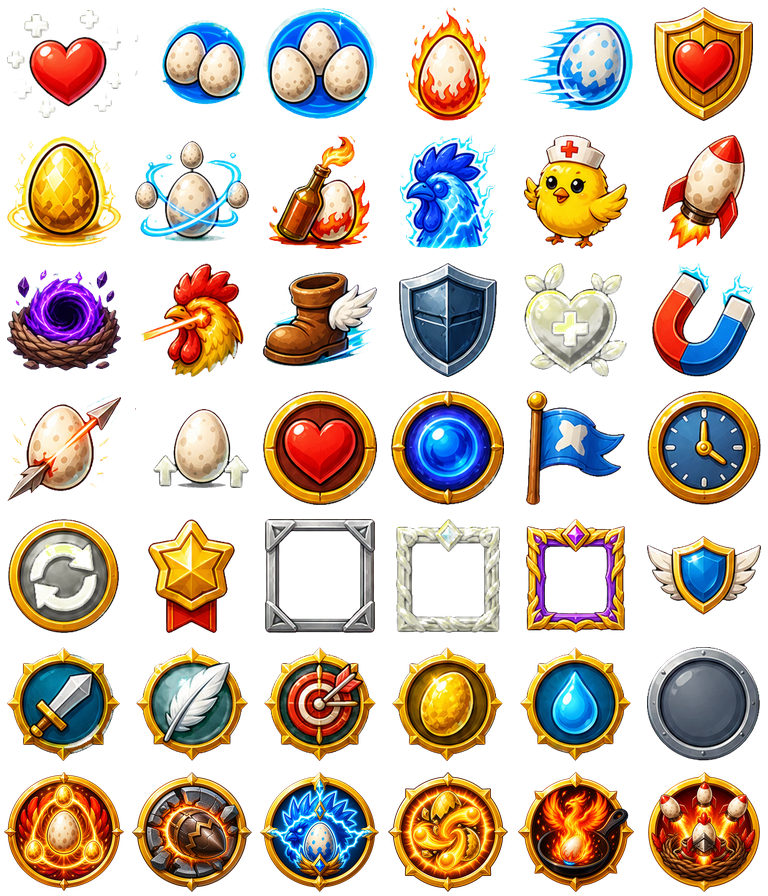
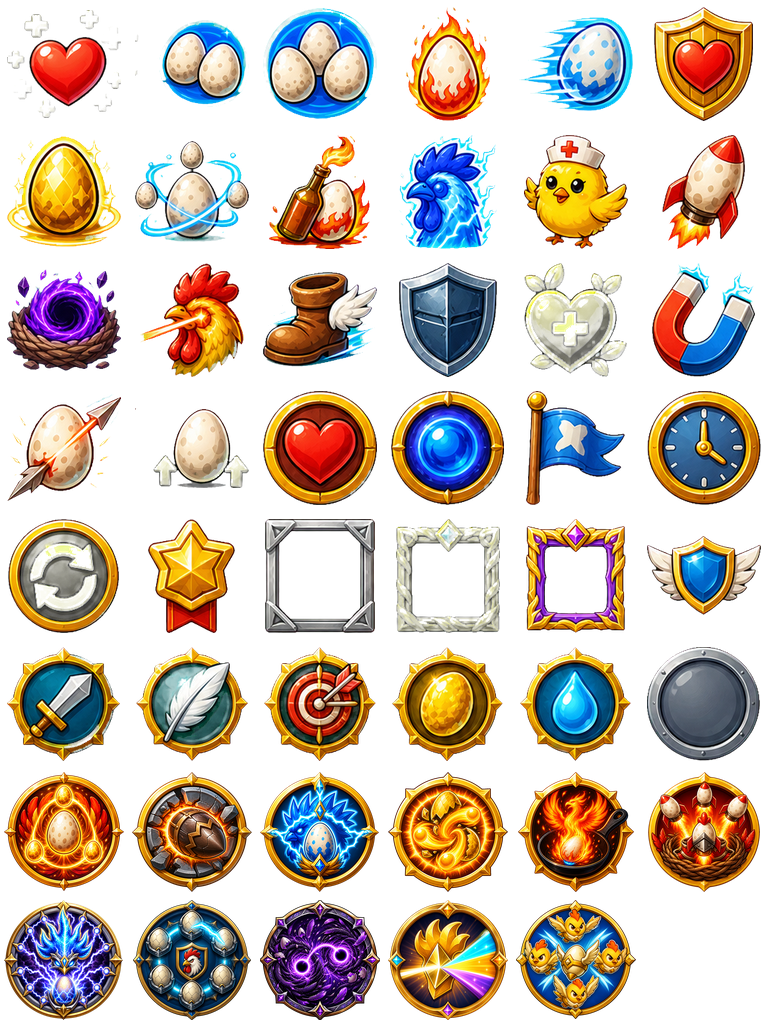
Add second weapon EVO asset bulk

diff --git a/src/systems/assets/AssetLoader.js b/src/systems/assets/AssetLoader.js
@@ -15,6 +15,7 @@ import enemyBossHeavyUrl from '../../assets/enemies/animations/enemy-boss-heavy.
 import fxAtlasUrl from '../../assets/fx/fx-atlas-v1-sheet.webp';
 import arenaGroundUrl from '../../assets/map/arena-ground.webp';
 import supportChickOrbUrl from '../../assets/companions/support-chick-orb.webp';
+import evoChickSquadronCompanionUrl from '../../assets/companions/evo-chick-squadron-companion.webp';
 import eggUrl from '../../assets/projectiles/egg.webp';
 import fireEggUrl from '../../assets/projectiles/fire-egg.webp';
 import heavyEggUrl from '../../assets/projectiles/heavy-egg.webp';
@@ -28,12 +29,20 @@ import evoTempestCrownProjectileUrl from '../../assets/projectiles/evolutions/ev
 import evoSolarScrambleProjectileUrl from '../../assets/projectiles/evolutions/evo-solar-scramble-projectile.webp';
 import evoPhoenixPanProjectileUrl from '../../assets/projectiles/evolutions/evo-phoenix-pan-projectile.webp';
 import evoBroodstormProjectileUrl from '../../assets/projectiles/evolutions/evo-broodstorm-projectile.webp';
+import evoShellHaloProjectileUrl from '../../assets/projectiles/evolutions/evo-shell-halo-projectile.webp';
+import evoChickSquadronProjectileUrl from '../../assets/projectiles/evolutions/evo-chick-squadron-projectile.webp';
 import evoSunshotArrayImpactUrl from '../../assets/fx/evolutions/evo-sunshot-array-impact.webp';
 import evoSiegebreakerShellImpactUrl from '../../assets/fx/evolutions/evo-siegebreaker-shell-impact.webp';
 import evoTempestCrownImpactUrl from '../../assets/fx/evolutions/evo-tempest-crown-impact.webp';
 import evoSolarScrambleImpactUrl from '../../assets/fx/evolutions/evo-solar-scramble-impact.webp';
 import evoPhoenixPanImpactUrl from '../../assets/fx/evolutions/evo-phoenix-pan-impact.webp';
 import evoBroodstormImpactUrl from '../../assets/fx/evolutions/evo-broodstorm-impact.webp';
+import evoThunderRoostImpactUrl from '../../assets/fx/evolutions/evo-thunder-roost-impact.webp';
+import evoShellHaloImpactUrl from '../../assets/fx/evolutions/evo-shell-halo-impact.webp';
+import evoSingularityNestZoneUrl from '../../assets/fx/evolutions/evo-singularity-nest-zone.webp';
+import evoDawnLaserEmitterUrl from '../../assets/fx/evolutions/evo-dawn-laser-emitter.webp';
+import evoDawnLaserImpactUrl from '../../assets/fx/evolutions/evo-dawn-laser-impact.webp';
+import evoChickSquadronImpactUrl from '../../assets/fx/evolutions/evo-chick-squadron-impact.webp';
 import enemyShotUrl from '../../assets/projectiles/enemy-shot.webp';
 import enemyPurpleShotUrl from '../../assets/projectiles/enemy-purple-shot.webp';
 import enemyBlueShotUrl from '../../assets/projectiles/enemy-blue-shot.webp';
@@ -114,6 +123,7 @@ export function preloadGameAssets(scene) {
   scene.load.spritesheet('fx-atlas-v1', fxAtlasUrl, { frameWidth: 256, frameHeight: 256 });
   scene.load.image('arena-ground', arenaGroundUrl);
   scene.load.image('support-chick', supportChickOrbUrl);
+  scene.load.image('evo-chick-squadron-companion', evoChickSquadronCompanionUrl);
   scene.load.image('egg', eggUrl);
   scene.load.image('fire-egg', fireEggUrl);
   scene.load.image('heavy-egg', heavyEggUrl);
@@ -127,12 +137,20 @@ export function preloadGameAssets(scene) {
   scene.load.image('evo-solar-scramble-projectile', evoSolarScrambleProjectileUrl);
   scene.load.image('evo-phoenix-pan-projectile', evoPhoenixPanProjectileUrl);
   scene.load.image('evo-broodstorm-projectile', evoBroodstormProjectileUrl);
+  scene.load.image('evo-shell-halo-projectile', evoShellHaloProjectileUrl);
+  scene.load.image('evo-chick-squadron-projectile', evoChickSquadronProjectileUrl);
   scene.load.image('evo-sunshot-array-impact', evoSunshotArrayImpactUrl);
   scene.load.image('evo-siegebreaker-shell-impact', evoSiegebreakerShellImpactUrl);
   scene.load.image('evo-tempest-crown-impact', evoTempestCrownImpactUrl);
   scene.load.image('evo-solar-scramble-impact', evoSolarScrambleImpactUrl);
   scene.load.image('evo-phoenix-pan-impact', evoPhoenixPanImpactUrl);
   scene.load.image('evo-broodstorm-impact', evoBroodstormImpactUrl);
+  scene.load.image('evo-thunder-roost-impact', evoThunderRoostImpactUrl);
+  scene.load.image('evo-shell-halo-impact', evoShellHaloImpactUrl);
+  scene.load.image('evo-singularity-nest-zone', evoSingularityNestZoneUrl);
+  scene.load.image('evo-dawn-laser-emitter', evoDawnLaserEmitterUrl);
+  scene.load.image('evo-dawn-laser-impact', evoDawnLaserImpactUrl);
+  scene.load.image('evo-chick-squadron-impact', evoChickSquadronImpactUrl);
   scene.load.image('enemy-shot', enemyShotUrl);
   scene.load.image('enemy-purple-shot', enemyPurpleShotUrl);
   scene.load.image('enemy-blue-shot', enemyBlueShotUrl);

diff --git a/src/systems/abilities/LaserCombAbility.js b/src/systems/abilities/LaserCombAbility.js
@@ -1,6 +1,7 @@
 import Phaser from 'phaser';
 import { TimedAbility } from './TimedAbility.js';
 import { distanceToSegment } from './abilityUtils.js';
+import { playEvolutionImpact } from '../EvolutionVisuals.js';
 
 export class LaserCombAbility extends TimedAbility {
   constructor(scene) {
@@ -18,6 +19,20 @@ export class LaserCombAbility extends TimedAbility {
     const baseAngle = Phaser.Math.Angle.Between(start.x, start.y, target.sprite.x, target.sprite.y);
     const offsets = this.evolved ? [-0.18, 0, 0.18] : this.rank >= 3 ? [0, 0.09] : [0];
     const colors = [0x5ad7ff, 0xfff3b0, 0x9b5cff];
+    if (this.evolved) {
+      const emitter = this.scene.add.image(start.x, start.y, 'evo-dawn-laser-emitter')
+        .setDisplaySize(38, 38)
+        .setRotation(baseAngle)
+        .setDepth(13);
+      const emitterScale = emitter.scaleX;
+      this.scene.tweens.add({
+        targets: emitter,
+        alpha: 0,
+        scale: emitterScale * 1.18,
+        duration: 260,
+        onComplete: () => emitter.destroy()
+      });
+    }
     offsets.forEach((offset, index) => {
       const angle = baseAngle + offset;
       const length = (this.evolved ? 700 : 520) + this.rank * 90;
@@ -50,11 +65,17 @@ export class LaserCombAbility extends TimedAbility {
           end.y
         );
         if (distance <= (this.evolved ? 40 : 32)) {
-          this.scene.playFx('fx-laser-impact', enemy.sprite.x, enemy.sprite.y + 8, {
-            scale: 0.34 + this.rank * 0.04,
-            depth: 13,
-            rotation: angle + Math.PI / 2
-          });
+          if (this.evolved) {
+            playEvolutionImpact(this.scene, 'evo-dawn-laser', enemy.sprite.x, enemy.sprite.y + 8, {
+              depth: 13
+            });
+          } else {
+            this.scene.playFx('fx-laser-impact', enemy.sprite.x, enemy.sprite.y + 8, {
+              scale: 0.34 + this.rank * 0.04,
+              depth: 13,
+              rotation: angle + Math.PI / 2
+            });
+          }
           this.scene.damageEnemy(enemy, damage, enemy.sprite.x, enemy.sprite.y, {
             source: this.evolved ? 'evo-dawn-laser' : 'laser-comb'
           });

diff --git a/src/entities/OrbitEgg.js b/src/entities/OrbitEgg.js
@@ -1,4 +1,5 @@
 import Phaser from 'phaser';
+import { playEvolutionImpact } from '../systems/EvolutionVisuals.js';
 
 export class OrbitEgg {
   constructor(scene, index, count, rank, evolved = false) {
@@ -17,11 +18,14 @@ export class OrbitEgg {
     this.lastHits = new Map();
     this.nextBossPulseAt = scene.time.now + 650 + index * 180;
 
-    this.sprite = scene.physics.add.sprite(scene.player.sprite.x, scene.player.sprite.y, 'egg');
-    this.sprite.setScale(1.15 + rank * 0.08);
+    this.sprite = scene.physics.add.sprite(
+      scene.player.sprite.x,
+      scene.player.sprite.y,
+      evolved ? 'evo-shell-halo-projectile' : 'egg'
+    );
+    this.sprite.setScale(evolved ? 1 : 1.15 + rank * 0.08);
     this.sprite.setCircle(10);
     this.sprite.setDepth(7);
-    if (evolved) this.sprite.setTint(0x8deaff);
     this.trail = rank >= 3
       ? scene.add.circle(
         scene.player.sprite.x,
@@ -56,6 +60,7 @@ export class OrbitEgg {
         const source = this.evolved ? 'evo-shell-halo' : 'orbit-eggs';
         this.scene.damageEnemy(enemy, this.damage, enemy.sprite.x, enemy.sprite.y, { source });
         if (this.evolved) {
+          playEvolutionImpact(this.scene, source, enemy.sprite.x, enemy.sprite.y);
           const chained = this.scene.enemies.find((candidate) => (
             candidate !== enemy
             && candidate.sprite.active

diff --git a/src/entities/VoidZone.js b/src/entities/VoidZone.js
@@ -22,11 +22,16 @@ export class VoidZone {
       .setStrokeStyle(3, 0x9b5cff, 0.78)
       .setDepth(3);
     this.core = scene.add.circle(x, y, this.radius * 0.3, 0x05030d, 0.62).setDepth(4);
-    this.portal = scene.add.sprite(x, y, 'fx-atlas-v1', 12)
-      .setScale((this.radius * 2) / 256)
+    this.portalBaseScale = evolved
+      ? Math.min((this.radius * 1.05) / 256, 0.9)
+      : (this.radius * 2) / 256;
+    this.portal = (evolved
+      ? scene.add.image(x, y, 'evo-singularity-nest-zone')
+      : scene.add.sprite(x, y, 'fx-atlas-v1', 12))
+      .setScale(this.portalBaseScale)
       .setAlpha(0.58)
       .setDepth(4);
-    this.portal.play('fx-void-portal');
+    if (!evolved) this.portal.play('fx-void-portal');
     this.runes = [];
     for (let i = 0; i < 8; i += 1) {
       const angle = (Math.PI * 2 * i) / 8;
@@ -80,7 +85,7 @@ export class VoidZone {
     this.outer.setAlpha(lifeRatio * 0.24);
     this.core.setScale(0.85 + Math.sin(this.age * 0.012) * 0.16);
     this.core.setAlpha(lifeRatio * 0.62);
-    this.portal.setScale(((this.radius * 2) / 256) * (0.9 + Math.sin(this.age * 0.006) * 0.08));
+    this.portal.setScale(this.portalBaseScale * (0.9 + Math.sin(this.age * 0.006) * 0.08));
     this.portal.setAlpha(lifeRatio * 0.58);
     this.portal.rotation -= delta * 0.00035;
     this.runes.forEach((rune, index) => {

diff --git a/src/systems/abilities/LightningCombAbility.js b/src/systems/abilities/LightningCombAbility.js
@@ -1,6 +1,7 @@
 import Phaser from 'phaser';
 import { LightningBolt } from '../../entities/LightningBolt.js';
 import { TimedAbility } from './TimedAbility.js';
+import { playEvolutionImpact } from '../EvolutionVisuals.js';
 
 export class LightningCombAbility extends TimedAbility {
   constructor(scene) {
@@ -29,10 +30,14 @@ export class LightningCombAbility extends TimedAbility {
     ));
     this.scene.audio.play('lightning');
     targets.forEach((enemy) => {
-      this.scene.playFx('fx-lightning-impact', enemy.sprite.x, enemy.sprite.y + 10, {
-        scale: 0.38 + this.rank * 0.04,
-        depth: 12
-      });
+      if (this.evolved) {
+        playEvolutionImpact(this.scene, 'evo-thunder-roost', enemy.sprite.x, enemy.sprite.y + 10);
+      } else {
+        this.scene.playFx('fx-lightning-impact', enemy.sprite.x, enemy.sprite.y + 10, {
+          scale: 0.38 + this.rank * 0.04,
+          depth: 12
+        });
+      }
     });
     this.scene.debugStats.specialShots += 1;
     this.scene.telemetry.addShot(1, time, this.scene.waveSystem.currentWave, this.evolved ? 'evo-thunder-roost' : 'lightning-comb');

diff --git a/src/entities/SupportChicken.js b/src/entities/SupportChicken.js
@@ -17,10 +17,13 @@ export class SupportChicken {
     this.slowMs = evolved ? 1200 : rank >= 5 ? 950 : rank >= 3 ? 700 : 0;
     this.ricochet = evolved || rank >= 5 ? 1 : 0;
 
-    this.sprite = scene.add.sprite(scene.player.sprite.x, scene.player.sprite.y, 'support-chick');
-    this.sprite.setScale(0.14);
+    this.sprite = scene.add.sprite(
+      scene.player.sprite.x,
+      scene.player.sprite.y,
+      evolved ? 'evo-chick-squadron-companion' : 'support-chick'
+    );
+    this.sprite.setDisplaySize(evolved ? 44 : 36, evolved ? 44 : 36);
     this.sprite.setDepth(8);
-    if (evolved) this.sprite.setTint(0xfff3b0);
   }
 
   update(delta) {
@@ -55,6 +58,8 @@ export class SupportChicken {
         trailRadius: this.evolved ? 9 : 7,
         trailColor: this.evolved ? 0xffe16a : 0xfffbef,
         trailAlpha: this.evolved ? 0.3 : 0.16,
+        texture: this.evolved ? 'evo-chick-squadron-projectile' : 'egg',
+        scale: this.evolved ? 1 : undefined,
         source: this.evolved ? 'evo-chick-squadron' : 'support-chick',
         pierce: this.pierce,
         ricochet: this.ricochet,

diff --git a/src/systems/EvolutionVisuals.js b/src/systems/EvolutionVisuals.js
@@ -4,7 +4,11 @@ const EVOLUTION_IMPACTS = {
   'evo-tempest-crown': { texture: 'evo-tempest-crown-impact', diameter: 66, duration: 155, rotation: 0.08 },
   'evo-solar-scramble': { texture: 'evo-solar-scramble-impact', diameter: 90, duration: 185, rotation: 0.22 },
   'evo-phoenix-pan': { texture: 'evo-phoenix-pan-impact', diameter: 108, duration: 205, rotation: 0 },
-  'evo-broodstorm': { texture: 'evo-broodstorm-impact', diameter: 124, duration: 210, rotation: 0.12 }
+  'evo-broodstorm': { texture: 'evo-broodstorm-impact', diameter: 124, duration: 210, rotation: 0.12 },
+  'evo-thunder-roost': { texture: 'evo-thunder-roost-impact', diameter: 64, duration: 165, rotation: 0.12 },
+  'evo-shell-halo': { texture: 'evo-shell-halo-impact', diameter: 64, duration: 160, rotation: -0.08 },
+  'evo-dawn-laser': { texture: 'evo-dawn-laser-impact', diameter: 72, duration: 175, rotation: 0.06 },
+  'evo-chick-squadron': { texture: 'evo-chick-squadron-impact', diameter: 58, duration: 155, rotation: -0.1 }
 };
 
 export function playEvolutionImpact(scene, source, x, y, overrides = {}) {

diff --git a/src/systems/TestApi.js b/src/systems/TestApi.js
@@ -147,6 +147,22 @@ export function installTestApi(scene) {
         count: scene.supportChickens.length
       }
     }),
+    getEvolutionVisualState: () => ({
+      loadedTextures: [
+        'evo-thunder-roost-impact',
+        'evo-shell-halo-projectile',
+        'evo-shell-halo-impact',
+        'evo-singularity-nest-zone',
+        'evo-dawn-laser-emitter',
+        'evo-dawn-laser-impact',
+        'evo-chick-squadron-companion',
+        'evo-chick-squadron-projectile',
+        'evo-chick-squadron-impact'
+      ].filter((key) => scene.textures.exists(key)),
+      orbitTextures: scene.orbitEggs.map((egg) => egg.sprite.texture?.key),
+      supportTextures: scene.supportChickens.map((chick) => chick.sprite.texture?.key),
+      voidZoneTextures: scene.voidZones.map((zone) => zone.portal.texture?.key)
+    }),
     triggerPrimaryAttack: () => {
       scene.lastShotAt = -Infinity;
       scene.combat.autoShoot(scene.time.now);

diff --git a/src/ui/HUD.js b/src/ui/HUD.js
@@ -61,11 +61,11 @@ const ICON_ALIASES_BY_ID = {
   'artillery-blast-plating': 'armor',
   'storm-static-plumage': 'lightning-comb',
   'storm-tailwind-training': 'move-speed',
-  'evo-thunder-roost': 'lightning-comb',
-  'evo-shell-halo': 'orbit-eggs',
-  'evo-singularity-nest': 'void-nest',
-  'evo-dawn-laser': 'laser-comb',
-  'evo-chick-squadron': 'support-chick',
+  'evo-thunder-roost': 'evo-thunder-roost',
+  'evo-shell-halo': 'evo-shell-halo',
+  'evo-singularity-nest': 'evo-singularity-nest',
+  'evo-dawn-laser': 'evo-dawn-laser',
+  'evo-chick-squadron': 'evo-chick-squadron',
   'primary-ace': 'active-upgrade',
   'primary-artillery': 'rocket-egg',
   'primary-storm': 'lightning-comb'

diff --git a/src/data/upgradeDefinitions.js b/src/data/upgradeDefinitions.js
@@ -645,7 +645,7 @@ export const UPGRADE_DEFINITIONS = [
   {
     id: 'evo-shell-halo',
     name: 'Shell Halo',
-    description: 'Vier geladene Orbit-Eier springen nach Kontakt auf ein zweites Ziel.',
+    description: 'Sechs geladene Orbit-Eier springen nach Kontakt auf ein zweites Ziel.',
     category: 'evolution',
     rarity: 'evolution',
     maxRank: 1,

diff --git a/src/systems/CombatSystem.js b/src/systems/CombatSystem.js
@@ -486,7 +486,8 @@ export class CombatSystem {
       'evo-sunshot-array',
       'evo-siegebreaker-shell',
       'evo-tempest-crown',
-      'evo-solar-scramble'
+      'evo-solar-scramble',
+      'evo-chick-squadron'
     ].includes(source)) {
       playEvolutionImpact(scene, source, x, y);
     }

diff --git a/scripts/optimize-assets.py b/scripts/optimize-assets.py
@@ -22,6 +22,7 @@ RUNTIME_IMAGES = (
     "characters/rooster-artillery-portrait.png",
     "characters/rooster-storm-portrait.png",
     "companions/support-chick-orb.png",
+    "companions/evo-chick-squadron-companion.png",
     "projectiles/egg.png",
     "projectiles/fire-egg.png",
     "projectiles/heavy-egg.png",
@@ -35,6 +36,8 @@ RUNTIME_IMAGES = (
     "projectiles/evolutions/evo-solar-scramble-projectile.png",
     "projectiles/evolutions/evo-phoenix-pan-projectile.png",
     "projectiles/evolutions/evo-broodstorm-projectile.png",
+    "projectiles/evolutions/evo-shell-halo-projectile.png",
+    "projectiles/evolutions/evo-chick-squadron-projectile.png",
     "projectiles/enemy-shot.png",
     "projectiles/enemy-purple-shot.png",
     "projectiles/enemy-blue-shot.png",
@@ -75,6 +78,12 @@ RUNTIME_IMAGES = (
     "fx/evolutions/evo-solar-scramble-impact.png",
     "fx/evolutions/evo-phoenix-pan-impact.png",
     "fx/evolutions/evo-broodstorm-impact.png",
+    "fx/evolutions/evo-thunder-roost-impact.png",
+    "fx/evolutions/evo-shell-halo-impact.png",
+    "fx/evolutions/evo-singularity-nest-zone.png",
+    "fx/evolutions/evo-dawn-laser-emitter.png",
+    "fx/evolutions/evo-dawn-laser-impact.png",
+    "fx/evolutions/evo-chick-squadron-impact.png",
     "map/arena-ground.png",
     "ui/ui-icons-v1-sheet.png",
 )
@@ -90,12 +99,21 @@ RUNTIME_SIZES = {
     "projectiles/evolutions/evo-solar-scramble-projectile.png": (36, 36),
     "projectiles/evolutions/evo-phoenix-pan-projectile.png": (36, 36),
     "projectiles/evolutions/evo-broodstorm-projectile.png": (42, 42),
+    "projectiles/evolutions/evo-shell-halo-projectile.png": (40, 40),
+    "projectiles/evolutions/evo-chick-squadron-projectile.png": (36, 36),
+    "companions/evo-chick-squadron-companion.png": (96, 96),
     "fx/evolutions/evo-sunshot-array-impact.png": (256, 256),
     "fx/evolutions/evo-siegebreaker-shell-impact.png": (256, 256),
     "fx/evolutions/evo-tempest-crown-impact.png": (256, 256),
     "fx/evolutions/evo-solar-scramble-impact.png": (256, 256),
     "fx/evolutions/evo-phoenix-pan-impact.png": (256, 256),
     "fx/evolutions/evo-broodstorm-impact.png": (256, 256),
+    "fx/evolutions/evo-thunder-roost-impact.png": (256, 256),
+    "fx/evolutions/evo-shell-halo-impact.png": (256, 256),
+    "fx/evolutions/evo-singularity-nest-zone.png": (256, 256),
+    "fx/evolutions/evo-dawn-laser-emitter.png": (64, 64),
+    "fx/evolutions/evo-dawn-laser-impact.png": (256, 256),
+    "fx/evolutions/evo-chick-squadron-impact.png": (256, 256),
 }
 
 BULK_1_ICONS = (
@@ -105,6 +123,14 @@ BULK_1_ICONS = (
     "evo-solar-scramble-icon.png",
     "evo-phoenix-pan-icon.png",
     "evo-broodstorm-icon.png",
+)
+
+BULK_2_ICONS = (
+    "evo-thunder-roost-icon.png",
+    "evo-shell-halo-icon.png",
+    "evo-singularity-nest-icon.png",
+    "evo-dawn-laser-icon.png",
+    "evo-chick-squadron-icon.png",
 )
 
 
@@ -132,12 +158,16 @@ def build_ui_icon_sheet():
     sheet_path = SOURCE_ROOT / "ui" / "ui-icons-v1-sheet.png"
     with Image.open(sheet_path) as current:
         base = current.convert("RGBA").crop((0, 0, 768, 768))
-    sheet = Image.new("RGBA", (768, 896), (0, 0, 0, 0))
+    sheet = Image.new("RGBA", (768, 1024), (0, 0, 0, 0))
     sheet.alpha_composite(base, (0, 0))
     for index, filename in enumerate(BULK_1_ICONS):
         with Image.open(SOURCE_ROOT / "ui" / "evolutions" / filename) as icon:
             fitted = fit_visible(icon, (128, 128), 4)
         sheet.alpha_composite(fitted, (index * 128, 768))
+    for index, filename in enumerate(BULK_2_ICONS):
+        with Image.open(SOURCE_ROOT / "ui" / "evolutions" / filename) as icon:
+            fitted = fit_visible(icon, (128, 128), 4)
+        sheet.alpha_composite(fitted, (index * 128, 896))
     sheet.save(sheet_path, "PNG", optimize=True)
 
 
